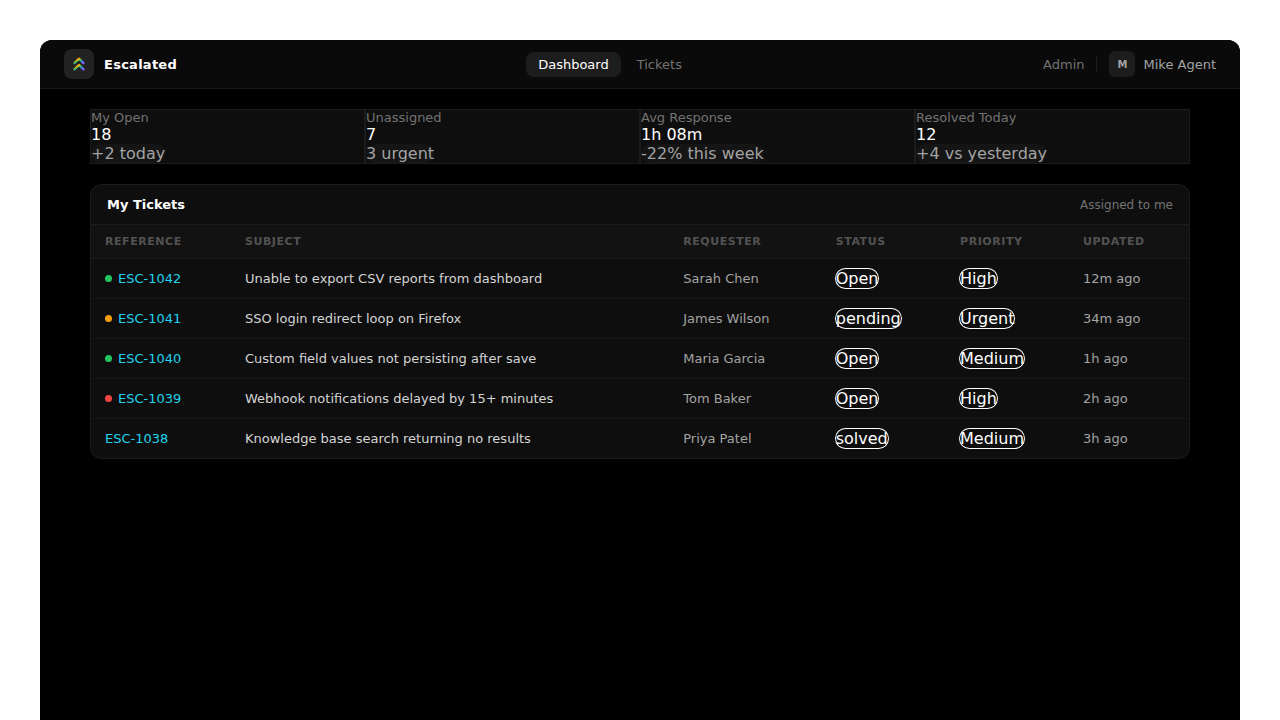
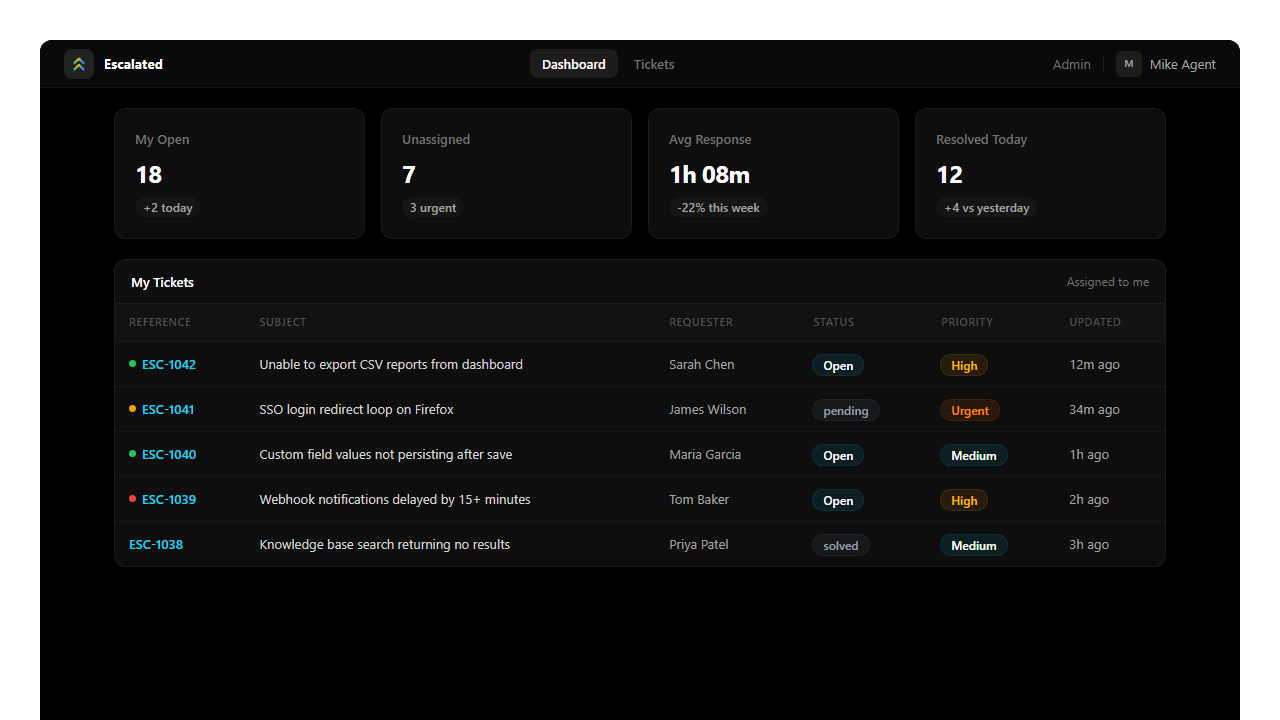
Build Tailwind for Storybook so the screenshots render styled
escalated_admin_1.png showed 200px trend arrows filling the stat cards and
status badges as thin outlined ellipses. The sidebar and table layout looked
fine, which is why it read as a styling glitch rather than a missing
stylesheet.

This package ships Vue components that style themselves with Tailwind
utilities but carries no CSS of its own: the consuming app builds Tailwind
and scans these files through its own config. Storybook only imported
.storybook/storybook.css, 76 lines of demo and transition helpers with no
utilities in it, so every component rendered unstyled. The story layout
survived because it is written with inline style attributes; the components
inside were not. A trend arrow with no size utility falls back to its
intrinsic SVG size, hence the arrows.

Adds a Tailwind entry that Storybook imports, with explicit @source globs so
it does not depend on where the build runs from.

Two workflow faults kept this hidden:

- The commit step added escalated_admin_1.png and escalated_admin_2.png only,
  while the spec writes five. admin_3, ticket_list and ticket_view were
  frozen at their March state, still showing a correct older render, so the
  two that did update looked like the odd ones out rather than the only
  honest ones. All five are committed now.

- The render ran with `|| true`, so a broken or failing pass never failed the
  job. Removed.

All five regenerated. ticket_list and ticket_view are visually unchanged,
[…]

diff --git a/.storybook/tailwind.css b/.storybook/tailwind.css
@@ -1,0 +1,20 @@
+/* Tailwind for Storybook.
+ *
+ * This package ships Vue components that style themselves with Tailwind
+ * utilities but carries no stylesheet of its own: the consuming app builds
+ * Tailwind and scans these files through its own config. Storybook renders the
+ * components on their own, so it has to build Tailwind itself or every
+ * component comes out unstyled.
+ *
+ * Without this, the story markup still looks right because it uses inline
+ * style attributes, while the components inside do not: badges lose their pill
+ * fill and a trend arrow with no size utility renders at its intrinsic size,
+ * which is how escalated_admin_1.png ended up with 200px arrows.
+ *
+ * @source is explicit rather than relying on v4 automatic detection, so it does
+ * not depend on where the build is invoked from.
+ */
+@import "tailwindcss";
+
+@source "../src/**/*.vue";
+@source "../src/**/*.js";

diff --git a/.storybook/preview.js b/.storybook/preview.js
@@ -1,4 +1,5 @@
 import { computed } from 'vue';
+import './tailwind.css';
 import './storybook.css';
 
 const panelDarkDefaults = {
